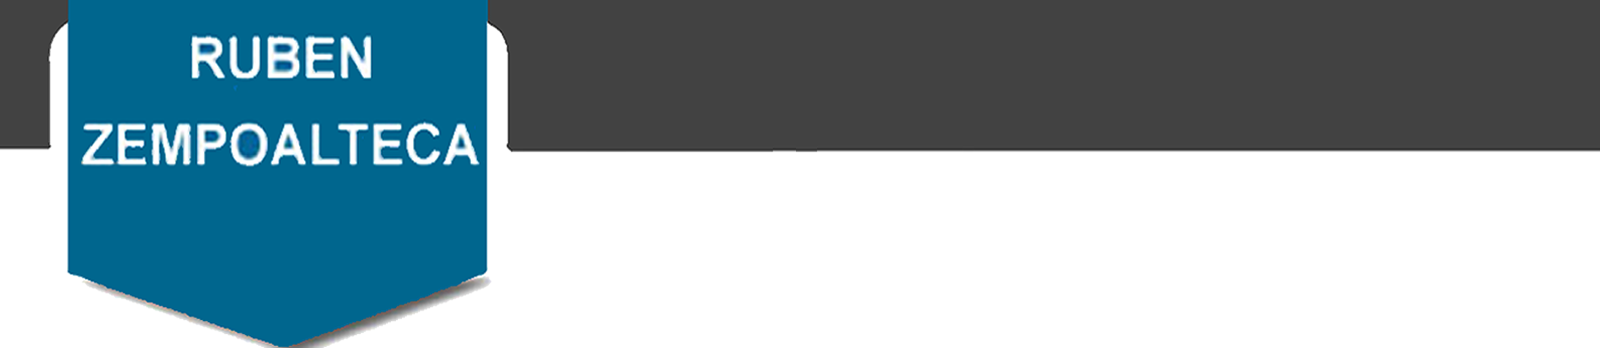
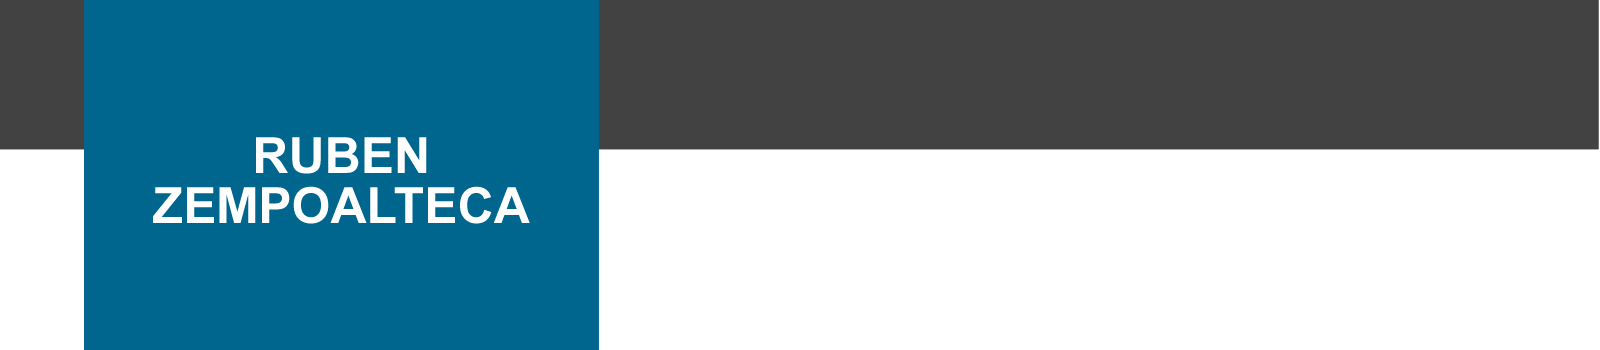
Style index.html

Changed region(s): [[0.0, 0.0, 1.0, 1.0], [0.0938, 0.0857, 0.25, 0.2286]]

diff --git a/myresume/index.html b/myresume/index.html
@@ -55,14 +55,19 @@
                 <li>Home: 5-53-06-94-38</li>
             </ul>            
         </side>
+
         <!--My photo-->
         <img id="me" src="images/me.png" alt="My photograph">
+
         <!--Professional Profile-->
         <side id="profprof">
-            <div class="icons">
-                <i class="fa fa-male"  aria-hidden="true"></i>
-            </div>           
+            <div id="profproftitle">
+                <div class="icons">
+                    <i class="fa fa-male"  aria-hidden="true"></i>
+                </div> 
+            </div>          
             <h3>PROFESSIONAL PROFILE</h3>
+            <hr>
             <p class="profile">In my professional career, I have developed or upkeep accounting computer systems, reason why I have completed a degree in Accounting. I have developed systems from their analysis to their implementation, among which stand out the automation of financial statements, automation of warehouse control with wireless bar code readers, assistance control systems with a biometric reader, and electronic invoicing system. I have also maintained implemented systems, mostly ERP systems custom-made to the company.</p> 
             <p class="profile">I have done these activities with Visual Basic.Net 2008, 2012, 2019, Visual Basic 6, Visual Basic 5, SQL Server, Access, and Crystal Reports. I have developed and updated electronic invoicing systems with c#, SQL Server, HTML5, JavaScript, and Bootstrap 3.</p>
             <p class="profile">Other activities I have carried out are the business-level consultancy of Crystal Reports XI, and Crystal Reports 10, teaching in office packages, and corrective and preventive PC maintenance. Also, Creation of web pages with HTML5, JavaScript, and CSS3.</p>
@@ -70,9 +75,11 @@
 
         <!--Areas of interest-->
         <side id="areas">
-            <div class="icons">
-                <i class="fa fa-puzzle-piece"  aria-hidden="true"></i>
-            </div>           
+            <div id="areastitle">
+                <div class="icons">
+                    <i class="fa fa-puzzle-piece"  aria-hidden="true"></i>
+                </div> 
+            </div>        
             <h3>AREAS OF INTEREST</h3> 
             <hr>
             <p>I like teaching.</p>
@@ -94,7 +101,7 @@
                 <div class="icons">
                     <i class="fa fa-cogs"  aria-hidden="true"></i>
                 </div> 
-                </div>
+            </div>
             <h3>WORK EXPERIENCE</h3> 
             <hr>       
              
@@ -133,18 +140,19 @@
 
         <!--Skills and languages-->
         <div id="skills">
+            <hr>
             <div id="skillstitle">
                 <div class="icons">
                     <i class="fa fa-wrench"  aria-hidden="true"></i>
                 </div> 
-                </div>
+            </div>
             <h3>SKILLS AND LANGUAGES</h3> 
             <hr> 
             
-            <table id"skillslanguages"">
+            <table id="skillslanguages"">
                 <tr>
-                    <td>SKILLS</td>
-                    <td>LANGUGES</td>
+                    <td><strong>SKILLS</strong></td>
+                    <td><strong>LANGUGES</strong></td>
                 </tr>
                 <tr>
                     <td>Analysis capacity</td>
@@ -171,42 +179,43 @@
 
         <!--Software-->
         <div id="software">
+            <hr>
             <div id="softwaretitle">
                 <div class="icons">
                     <i class="fa fa-laptop"  aria-hidden="true"></i>
                 </div> 
-                </div>
-            <h3>SOFTWARE</h3> 
+            </div>
+            <h3>COMPUTER SOFTWARE</h3> 
             <hr> 
 
-            <table>
+            <table id="softwarelevel">
                 <tr>
-                    <td>SOFTWARE</td>
-                    <td>LEARNING LEVEL</td>
+                    <td> <strong> SOFTWARE </strong> </td>
+                    <td> <strong> LEARNING LEVE L</strong> </td>
                 </tr> 
                 <tr>
                     <td>Visual Basic 5, Visual Basic 6.</td>
-                    <td>Intermedium -Advanced</td>
+                    <td>Intermedium - Advanced</td>
                 </tr>  
                 <tr>
                     <td>Visual Basic.Net 2008-2015,2019.</td>
-                    <td>Intermedium -Advanced</td>
+                    <td>Intermedium - Advanced</td>
                 </tr> 
                 <tr>
                     <td>C# 2015.</td>
-                    <td>Intermedium -Advanced</td>
+                    <td>Intermedium - Advanced</td>
                 </tr> 
                 <tr>
                     <td>SQL Server (TSQL) 7,2005-2014.</td>
-                    <td>Intermedium -Advanced</td>
+                    <td>Intermedium - Advanced</td>
                 </tr> 
                 <tr>
                     <td>JavaScript.</td>
-                    <td>Intermedium -Advanced</td>
+                    <td>Intermedium - Advanced</td>
                 </tr> 
                 <tr>
                     <td>HTML5.</td>
-                    <td>Intermedio-Avanzado</td>
+                    <td>Intermedio - Avanzado</td>
                 </tr> 
                 <tr>
                     <td>Bootstrap</td>
@@ -214,7 +223,7 @@
                 </tr> 
                 <tr>
                     <td>MS Office</td>
-                    <td>Intermedium -Advanced</td>
+                    <td>Intermedium - Advanced</td>
                 </tr> 
                 <tr>
                     <td>CSS3</td>
@@ -241,36 +250,37 @@
 
         <!--Education Level-->
         <div id="education">
+            <hr>
             <div id="educationtitle">
                 <div class="icons">
                     <i class="fa fa-graduation-cap"  aria-hidden="true"></i>
                 </div> 
-                </div>
+            </div>
             <h3>EDUCATION LEVEL</h3> 
             <hr>  
             
-            <div id="byu">
+            <div id="byu" class="education">
                 <ul>
                     <li><strong>Bachelor of Applied Technology.</strong></li>
                     <li>Anticipated Apr. 2026.</li>
                     <li>BYU-Idaho.</li>
                 </ul>
             </div>
-            <div id="pathway">
+            <div id="pathway" class="education">
                 <ul>
                     <li><strong>PathwayConnect Certificate.</strong></li>
                     <li>Apr. 2022.</li>
                     <li>BYU-Pathway Worldwide</li>
                 </ul>
             </div>
-            <div id="unitec">
+            <div id="unitec" class="education">
                 <ul>
                     <li><strong>Bachelor of Public Accounting.</strong></li>
                     <li>Aug. 2021.</li>
                     <li>Universidad Tecnológica de México</li>
                 </ul>
             </div>
-            <div id="conalep">
+            <div id="conalep" class="education">
                 <ul>
                     <li><strong>IT Technician</strong></li>
                     <li>July. 1995.</li>

diff --git a/myresume/styles/style.css b/myresume/styles/style.css
@@ -4,10 +4,11 @@
   20.06.2022.
 */
 
-
-
-
-
+/*
+* {
+	border: 2px solid blue
+}
+*/
 
 /************************************************************
 **************************   Template    ********************
@@ -56,6 +57,7 @@ header{
 nav {
     display: flex;
     justify-content: space-around;
+    font-family: Robo, Arial, Verdana, Helvetica; /*Apply Robo in titles of sections and in nav*/
 }
 nav a{
     text-align: center;
@@ -108,7 +110,7 @@ main side h6{
 }
 main side ul{
     list-style: none;
-    color:#FDFAFD;
+    color:#BBBBBB;
     font-size:medium;
 }
 
@@ -119,9 +121,6 @@ main side ul{
     font-size:50px;
     color:#BBBBBB; 
 }
-
-
-
 
 /*Section footer*/
 footer{
@@ -163,21 +162,27 @@ footer .social img {
 #me{
     grid-column: 2/4;
     grid-row: 2/4;
-    width: 75%;
-    margin-top: 185px;
-    padding: 20px;;
+    width: 100%;
+    margin-top: 200px;
+    margin-left: 40px;
+    padding: 20px;
 }
 
 #profprof{
-    grid-column: 1/5;
+    grid-column: 2/5;
     grid-row: 4/6;
     width: 100%;  
 }
 
+#profproftitle{
+    position: absolute;
+}
+
 #profprof h3{
-    border-bottom: solid thin #BBBBBB;
-    margin: 25px;
-    padding: 15px;
+    font-family: Robo, Arial, Verdana, Helvetica; /*Apply Robo in titles of sections*/
+    margin-left: 85px;
+    text-align: left;
+    
 }
 
 .profile{
@@ -186,13 +191,23 @@ footer .social img {
 }
 
 #areas{
-    grid-column: 1/5;
+    grid-column: 2/5;
     grid-row: 6/7;
     width: 100%;
+    text-align: left; 
+    margin-top: 150px; 
+}
+
+#areastitle{
+    position: absolute;
+}
+#areas h3{
+    margin-left: 85px;
+    font-family: Robo, Arial, Verdana, Helvetica; /*Apply Robo in titles of sections*/
 }
 
 #intro{
-    grid-column: 5/12;
+    grid-column: 6/11;
     grid-row: 2/3;
     width: 100%;
     margin-top: 45px; 
@@ -202,40 +217,99 @@ footer .social img {
 #intro h1,h2{
     text-align: left;
     margin: 25px;
+    font-family: Robo, Arial, Verdana, Helvetica; /*Apply Robo in titles of sections*/
 }
 
 #experience{
-    grid-column: 5/12;
+    grid-column: 6/11;
     grid-row: 3/6;
-    width: 100%;  
+    width: 100%;
+    text-align: left;
+ 
 }
 
 #experience h3 {
-    text-align: left;
     margin-left: 85px;
+    font-family: Robo, Arial, Verdana, Helvetica; /*Apply Robo in titles of sections*/
 }
+
 
 #workexp{ 
     position: absolute;
 }
 
+#job1, #job2, #job3{
+    margin: 25px;
+}
+
 #skills{
-    grid-column: 5/12;
+    grid-column: 6/11;
     grid-row: 6/7;
     width: 100%;  
 }
 
+#skillstitle{
+    position: absolute;
+}
+
+#skills h3{
+    margin-left: 85px;
+    text-align: left;
+    font-family: Robo, Arial, Verdana, Helvetica; /*Apply Robo in titles of sections*/
+}
+
+#skillslanguages{
+    width: 95%;
+    margin: 25px;
+}
+
 #software{
-    grid-column: 5/12;
+    grid-column: 6/11;
     grid-row: 7/8;
     width: 100%;  
 }
 
+#softwaretitle{
+    position: absolute;
+}
+
+#software h3{
+    margin-left: 85px;
+    text-align: left;
+    font-family: Robo, Arial, Verdana, Helvetica; /*Apply Robo in titles of sections*/
+}
+
+#softwarelevel{
+    width: 95%;
+    margin: 25px; 
+   
+}
+
 #education{
-    grid-column: 5/12;
+    grid-column: 6/11;
     grid-row: 8/9;
     width: 100%;
 }
+
+#educationtitle{
+    position: absolute;
+}
+
+#education h3{
+    margin-left: 85px;
+    text-align: left;
+    font-family: Robo, Arial, Verdana, Helvetica; /*Apply Robo in titles of sections*/
+}
+
+.education{
+    text-align: left;
+    margin-right: 25px;
+}
+
+.education ul{
+    list-style: none;
+}
+
 
 /************************************************************
 **************************  Letter Cover ********************
